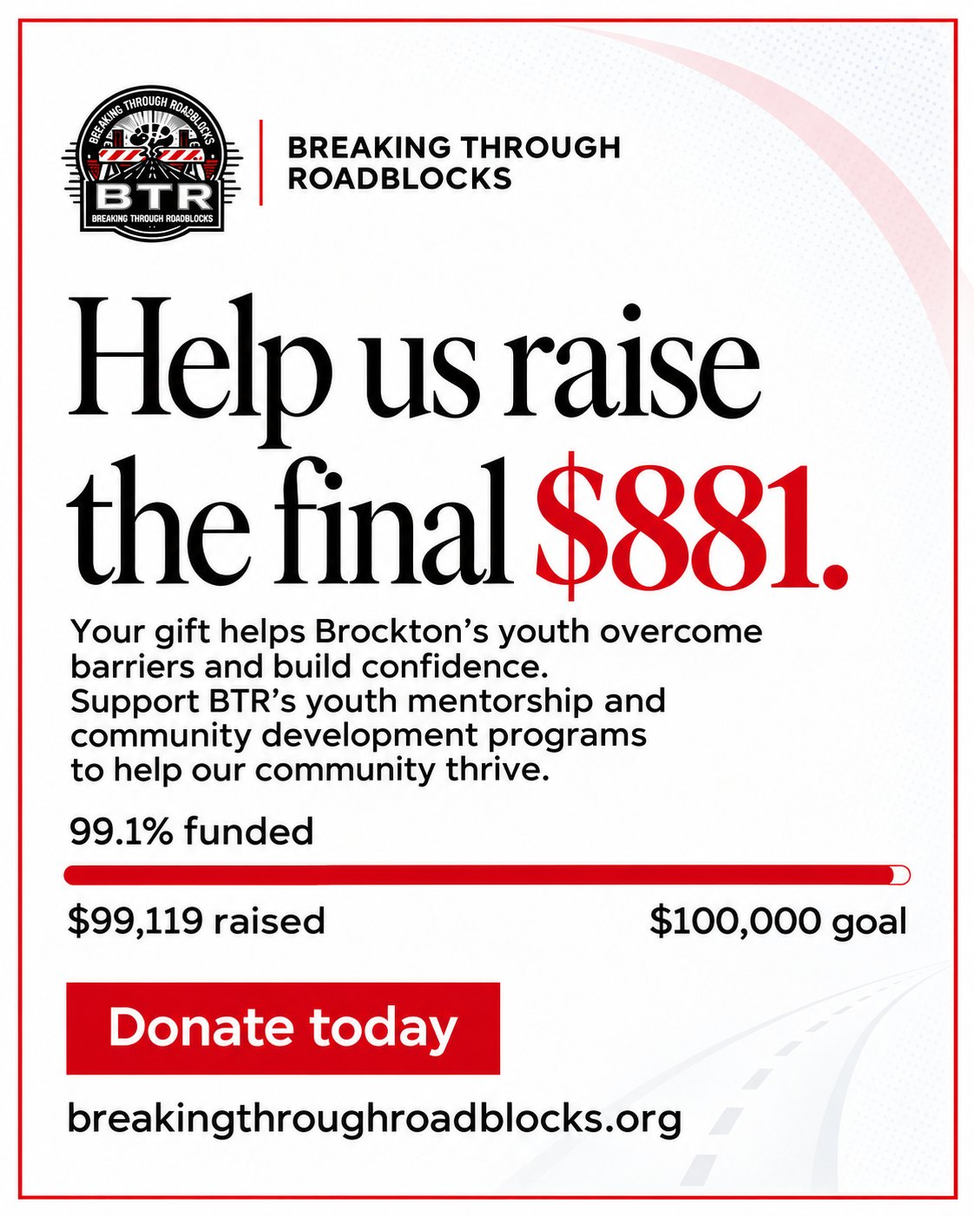
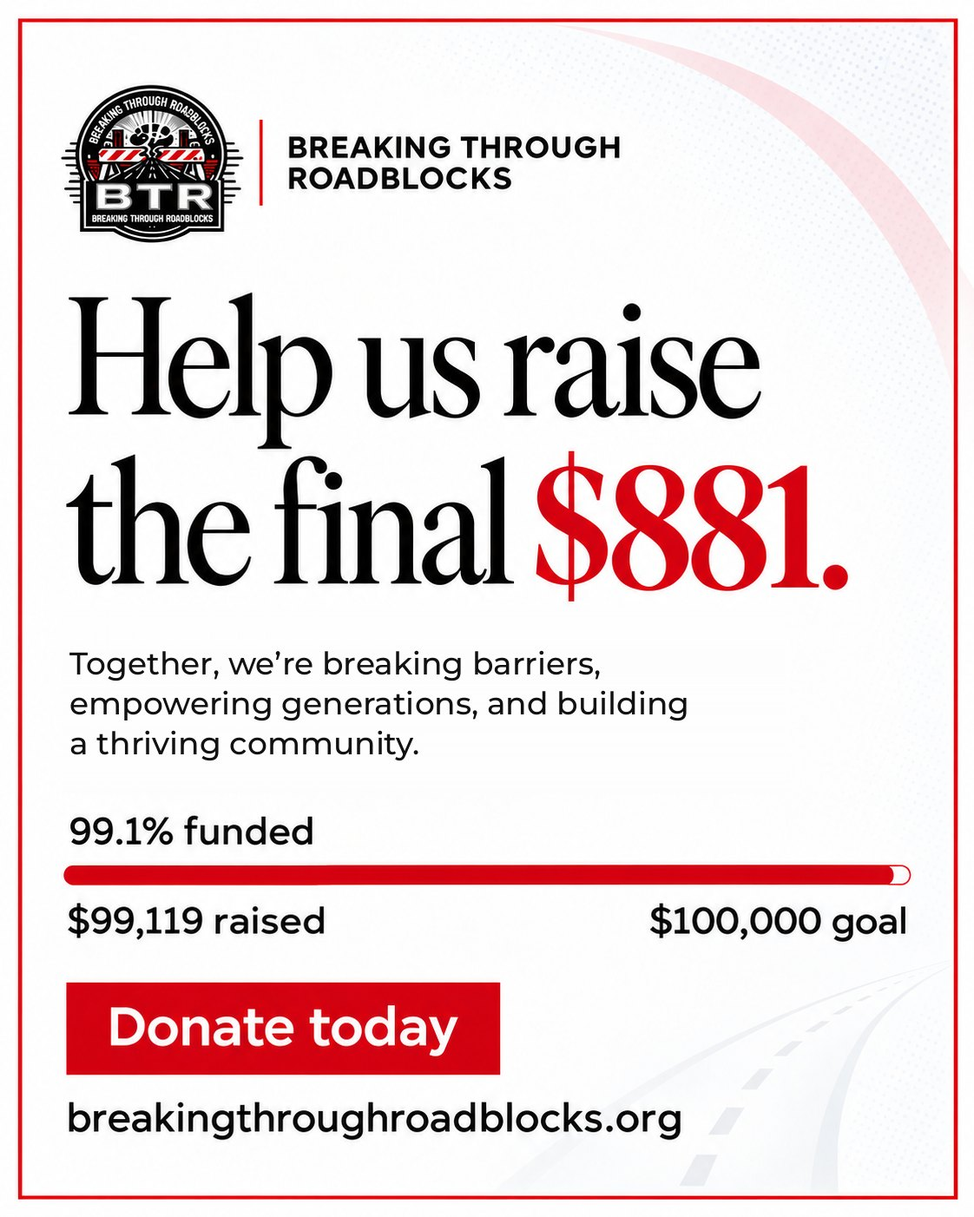
Donation popup: update wording
Claude-Session: https://claude.ai/code/session_011HbiFutbZJFwrWqNB7QXRi

Changed region(s): [[0.0624, 0.4907, 0.7799, 0.6441]]

diff --git a/index.html b/index.html
@@ -28,4 +28,4 @@
 
 
 
-<section class="section pale"><div class="section-heading"><div><p class="eyebrow">LATEST UPDATES</p><h2>From conversations to breakthroughs.</h2></div><a class="text-link" href="news.html">All BTR news</a></div><div class="news-grid"><article class="news-card"><a href="story-where-excellence-meets-sole.html"><img src="assets/gala/gala-thank-you.jpg?v=3" alt="Thank You graphic from Breaking Through Roadblocks for the Evening of Excellence Gala" loading="lazy"></a><div><p class="eyebrow">2026-11-14 · 4 MIN READ</p><h3><a href="story-where-excellence-meets-sole.html">Where Excellence Meets Sole: BTR’s 2nd Annual Evening of Excellence Gala</a></h3><p>The ballroom was glowing in BTR red, the sneakers were making statements, and the dance floor stayed busy at our sold-out 2nd Annual Evening of Excellence Gala…</p><a class="text-link" href="story-where-excellence-meets-sole.html">Read article</a></div></article><article class="news-card"><a href="story-btr-breast-cancer-awareness-walk.html"><img src="assets/cancerwalk/IMG_3013-hd.jpg" alt="Brockton High School student volunteers in pink shirts at the BTR Breast Cancer Awareness Walk in D.W. Field Park" loading="lazy"></a><div><p class="eyebrow">2026-10-17 · 1 MIN READ</p><h3><a href="story-btr-breast-cancer-awareness-walk.html">BTR Breast Cancer Awareness Walk</a></h3><p>BTR held its 2nd annual Breast Cancer Awareness Walk at D.W. Field Park in Brockton, with more than 80 people in attendance…</p><a class="text-link" href="story-btr-breast-cancer-awareness-walk.html">Read article</a></div></article><article class="news-card"><a href="story-btr-game-night.html"><img src="assets/game-night/game-night-2026.jpg" alt="Guests mingling between tables at BTR Game Night in a Brockton art gallery" loading="lazy"></a><div><p class="eyebrow">2026-10-10 · 2 MIN READ</p><h3><a href="story-btr-game-night.html">BTR Game Night</a></h3><p>Our Men &amp; Women Game Night brought the community together for an evening built around one big theme: how men and women communicate. The conversations went deep…</p><a class="text-link" href="story-btr-game-night.html">Read article</a></div></article></div></section><section id="support" class="campaign-wrap home-campaign" aria-labelledby="campaign-heading"><div class="campaign-card"><div class="campaign-intro"><p class="eyebrow">ONE COMMUNITY. ONE BOLD GOAL.</p><h2 id="campaign-heading">Together, let’s reach $100K.</h2><p>Every contribution moves the mission forward. Help us reach our goal by December 31, 2026 at 11:59 PM.</p></div><div class="campaign-progress"><div class="giving-totals"><div><strong id="raised-total">$80,600</strong><span>raised by our community</span></div><div class="giving-target"><strong id="goal-total">$100,000</strong><span>fundraising goal</span></div></div><div id="giving-meter" role="progressbar" aria-label="BTR fundraising progress" aria-valuemin="0" aria-valuemax="100000" aria-valuenow="80600" aria-valuetext="$80,600 raised of $100,000 goal"><div id="giving-fill" style="width:80.6%"></div></div><div class="giving-progress-labels"><strong id="giving-percent">81% of our goal</strong><span id="giving-remaining">$19,400 to go</span></div><p id="giving-status" class="giving-status" aria-live="polite">Last verified November 7, 2026. Checking for the latest total…</p><a class="text-link meter-source" href="https://thesoe2.net/BTR/" target="_blank" rel="noopener">View BTR’s fundraising tracker ↗</a><a class="button" href="https://www.paypal.com/ncp/payment/ZL732ZLWXHD96" target="_blank" rel="noopener">Support a breakthrough ↗</a></div></div></section><section class="section quote-band"><blockquote>“Empowerment is not about making people stronger, it’s about changing the way the world perceives their strength.”</blockquote><p>Breaking Through Roadblocks</p></section><section class="section sponsor-marquee-section"><div class="section-heading"><div><p class="eyebrow">OUR PARTNERS</p><h2>Thank you to our sponsors.</h2></div><div class="sm-actions"><button type="button" class="rot-toggle sm-toggle" aria-pressed="false">Pause scrolling</button><a class="text-link" href="sponsor.html">Become a sponsor</a></div></div></section><div class="sponsor-marquee" role="region" aria-label="Our sponsors and supporters"><ul class="sm-track"><li><img src="assets/sponsors/sponsor-01.jpg" alt="Thank you to Trefler Foundation" width="384" height="216" loading="lazy"></li><li><img src="assets/sponsors/sponsor-02.jpg" alt="Thank you to The Boston Foundation" width="384" height="216" loading="lazy"></li><li><img src="assets/sponsors/sponsor-03.jpg" alt="Thank you to Rockland Trust" width="384" height="216" loading="lazy"></li><li><img src="assets/sponsors/sponsor-04.jpg" alt="Thank you to Eastern Bank" width="384" height="216" loading="lazy"></li><li><img src="assets/sponsors/sponsor-05.jpg" alt="Thank you to City of Brockton, Senator Charles E. Shannon Community Safety Initiative Grant" width="384" height="216" loading="lazy"></li><li><img src="assets/sponsors/sponsor-06.jpg" alt="Thank you to Bank of Canton" width="384" height="216" loading="lazy"></li><li><img src="assets/sponsors/sponsor-07.jpg" alt="Thank you to Zion’s Photobooths &amp; Entertainment" width="384" height="216" loading="lazy"></li><li><img src="assets/sponsors/sponsor-08.jpg" alt="Thank you to Controller Service &amp; Sales" width="384" height="216" loading="lazy"></li><li><img src="assets/sponsors/sponsor-09.jpg" alt="Thank you to Andrea Rosario" width="384" height="216" loading="lazy"></li><li><img src="assets/sponsors/sponsor-10.jpg" alt="Thank you to Brack’s Grille &amp; Tap" width="384" height="216" loading="lazy"></li><li><img src="assets/sponsors/sponsor-11.jpg" alt="Thank you to George Lopes Funeral Home" width="384" height="216" loading="lazy"></li><li><img src="assets/sponsors/sponsor-12.jpg" alt="Thank you to Dance studio" width="384" height="216" loading="lazy"></li><li><img src="assets/sponsors/sponsor-13.jpg" alt="Thank you to New Balance" width="384" height="216" loading="lazy"></li><li><img src="assets/sponsors/sponsor-14.jpg" alt="Thank you to Johnny Soles" width="384" height="216" loading="lazy"></li><li><img src="assets/sponsors/sponsor-15.jpg" alt="Thank you to Texas Roadhouse" width="384" height="216" loading="lazy"></li><li><img src="assets/sponsors/sponsor-16.jpg" alt="Thank you to Suffolk" width="384" height="216" loading="lazy"></li><li><img src="assets/sponsors/sponsor-17.jpg" alt="Thank you to Jersey Mike’s Subs" width="384" height="216" loading="lazy"></li><li><img src="assets/sponsors/sponsor-18.jpg" alt="Thank you to Brockton Public Schools" width="384" height="216" loading="lazy"></li><li><img src="assets/sponsors/sponsor-19.jpg" alt="Thank you to Jorge the Mortgage Guy, Total Mortgage" width="384" height="216" loading="lazy"></li><li><img src="assets/sponsors/sponsor-20.jpg" alt="Thank you to Brockton High School" width="384" height="216" loading="lazy"></li><li><img src="assets/sponsors/sponsor-21.jpg" alt="Thank you to I Go To Him" width="384" height="216" loading="lazy"></li><li><img src="assets/sponsors/sponsor-22.jpg" alt="Thank you to Traders World" width="384" height="216" loading="lazy"></li><li><img src="assets/sponsors/sponsor-23.jpg" alt="Thank you to Jovonie Houston" width="384" height="216" loading="lazy"></li><li><img src="assets/sponsors/sponsor-24.jpg" alt="Thank you to ACVB-CARE" width="384" height="216" loading="lazy"></li><li><img src="assets/sponsors/sponsor-25.jpg" alt="Thank you to Left Field Project Management" width="384" height="216" loading="lazy"></li><li><img src="assets/sponsors/sponsor-26.jpg" alt="Thank you to Brockton Public Library" width="384" height="216" loading="lazy"></li><li><img src="assets/sponsors/sponsor-27.jpg" alt="Thank you to Sweet Plantain Strings" width="384" height="216" loading="lazy"></li><li><img src="assets/sponsors/sponsor-28.jpg" alt="Thank you to Liberty Printing" width="384" height="216" loading="lazy"></li><li aria-hidden="true"><img src="assets/sponsors/sponsor-01.jpg" alt="" width="384" height="216" loading="lazy"></li><li aria-hidden="true"><img src="assets/sponsors/sponsor-02.jpg" alt="" width="384" height="216" loading="lazy"></li><li aria-hidden="true"><img src="assets/sponsors/sponsor-03.jpg" alt="" width="384" height="216" loading="lazy"></li><li aria-hidden="true"><img src="assets/sponsors/sponsor-04.jpg" alt="" width="384" height="216" loading="lazy"></li><li aria-hidden="true"><img src="assets/sponsors/sponsor-05.jpg" alt="" width="384" height="216" loading="lazy"></li><li aria-hidden="true"><img src="assets/sponsors/sponsor-06.jpg" alt="" width="384" height="216" loading="lazy"></li><li aria-hidden="true"><img src="assets/sponsors/sponsor-07.jpg" alt="" width="384" height="216" loading="lazy"></li><li aria-hidden="true"><img src="assets/sponsors/sponsor-08.jpg" alt="" width="384" height="216" loading="lazy"></li><li aria-hidden="true"><img src="assets/sponsors/sponsor-09.jpg" alt="" width="384" height="216" loading="lazy"></li><li aria-hidden="true"><img src="assets/sponsors/sponsor-10.jpg" alt="" width="384" height="216" loading="lazy"></li><li aria-hidden="true"><img src="assets/sponsors/sponsor-11.jpg" alt="" width="384" height="216" loading="lazy"></li><li aria-hidden="true"><img src="assets/sponsors/sponsor-12.jpg" alt="" width="384" height="216" loading="lazy"></li><li aria-hidden="true"><img src="assets/sponsors/sponsor-13.jpg" alt="" width="384" height="216" loading="lazy"></li><li aria-hidden="true"><img src="assets/sponsors/sponsor-14.jpg" alt="" width="384" height="216" loading="lazy"></li><li aria-hidden="true"><img src="assets/sponsors/sponsor-15.jpg" alt="" width="384" height="216" loading="lazy"></li><li aria-hidden="true"><img src="assets/sponsors/sponsor-16.jpg" alt="" width="384" height="216" loading="lazy"></li><li aria-hidden="true"><img src="assets/sponsors/sponsor-17.jpg" alt="" width="384" height="216" loading="lazy"></li><li aria-hidden="true"><img src="assets/sponsors/sponsor-18.jpg" alt="" width="384" height="216" loading="lazy"></li><li aria-hidden="true"><img src="assets/sponsors/sponsor-19.jpg" alt="" width="384" height="216" loading="lazy"></li><li aria-hidden="true"><img src="assets/sponsors/sponsor-20.jpg" alt="" width="384" height="216" loading="lazy"></li><li aria-hidden="true"><img src="assets/sponsors/sponsor-21.jpg" alt="" width="384" height="216" loading="lazy"></li><li aria-hidden="true"><img src="assets/sponsors/sponsor-22.jpg" alt="" width="384" height="216" loading="lazy"></li><li aria-hidden="true"><img src="assets/sponsors/sponsor-23.jpg" alt="" width="384" height="216" loading="lazy"></li><li aria-hidden="true"><img src="assets/sponsors/sponsor-24.jpg" alt="" width="384" height="216" loading="lazy"></li><li aria-hidden="true"><img src="assets/sponsors/sponsor-25.jpg" alt="" width="384" height="216" loading="lazy"></li><li aria-hidden="true"><img src="assets/sponsors/sponsor-26.jpg" alt="" width="384" height="216" loading="lazy"></li><li aria-hidden="true"><img src="assets/sponsors/sponsor-27.jpg" alt="" width="384" height="216" loading="lazy"></li><li aria-hidden="true"><img src="assets/sponsors/sponsor-28.jpg" alt="" width="384" height="216" loading="lazy"></li></ul></div></main><footer class="final-footer"><div><a class="brand" href="index.html"><img class="brand-logo" src="btr-logo-transparent.png" alt="Breaking Through Roadblocks (BTR)" width="590" height="566"></a><p>From Roadblocks to Breakthroughs.</p><div class="footer-social"><a href="https://www.instagram.com/breaking_through_roadblocks/" target="_blank" rel="noopener" aria-label="BTR on Instagram (opens in a new tab)"><svg viewBox="0 0 24 24" width="20" height="20" aria-hidden="true" focusable="false"><rect x="3" y="3" width="18" height="18" rx="5" fill="none" stroke="currentColor" stroke-width="2"/><circle cx="12" cy="12" r="4" fill="none" stroke="currentColor" stroke-width="2"/><circle cx="17.5" cy="6.5" r="1.3" fill="currentColor"/></svg></a><a href="https://www.facebook.com/profile.php?id=100095442188513" target="_blank" rel="noopener" aria-label="BTR on Facebook (opens in a new tab)"><svg viewBox="0 0 24 24" width="20" height="20" aria-hidden="true" focusable="false"><path fill="currentColor" d="M13.5 21v-7.5h2.6l.4-3h-3V8.6c0-.9.3-1.5 1.5-1.5h1.6V4.4c-.3 0-1.2-.1-2.3-.1-2.3 0-3.9 1.4-3.9 4v2.2H7.8v3h2.6V21h3.1z"/></svg></a></div></div><div class="footer-column"><h3>Explore BTR</h3><a href="about.html">About BTR</a><a href="board.html">Our board</a><a href="programs.html">Programs</a><a href="news.html">News</a></div><div class="footer-column"><h3>Get Involved</h3><a href="support.html">Support BTR</a><a href="sponsor.html">Sponsorship</a><a href="events.html">Events</a><a href="contact.html">Contact</a></div><div class="footer-column"><h3>Community</h3><a href="code-of-conduct.html">Code of conduct</a><a href="terms.html">Terms &amp; conditions</a><a href="privacy.html">Privacy policy</a><a href="accessibility.html">Accessibility</a></div><div class="footer-bottom"><p>© 2026 Breaking Through Roadblocks, Inc.</p><p>Designed by DrewBreezy MediaPowered</p><p><a class="footer-admin" href="stats/">ADMIN</a></p></div></footer><script src="script.js?v=20261116004245"></script><script src="donations.js"></script><script src="carousel.js"></script><div class="gala-modal thanks-modal" id="thanksModal" role="dialog" aria-modal="true" aria-labelledby="thanksModalTitle" hidden><div class="gala-modal-backdrop" data-close></div><div class="gala-modal-panel" tabindex="-1"><button type="button" class="gala-modal-close" data-close aria-label="Close">&times;</button><div class="tm-grid"><div class="tm-rotator" aria-roledescription="carousel" aria-label="Photos from the Evening of Excellence Gala"><img class="tm-slide is-active" src="assets/gala/thanks-1.jpg" alt="A T.A.R.G.E.T.S. youth member smiling beside the BTR merchandise table at the gala" style="object-position:30% 40%"><img class="tm-slide" src="assets/gala/thanks-2.jpg" alt="A gala table set with gold chargers, red napkins and black candelabras" style="object-position:50% 60%"><img class="tm-slide" src="assets/gala/thanks-3.jpg" alt="Five smiling guests taking a selfie in the red-lit gala ballroom" style="object-position:50% 40%"><img class="tm-slide" src="assets/gala/thanks-4.jpg" alt="Spirit of Excellence dancers in black and gold posing together at the gala" style="object-position:50% 20%"><div class="tm-dots"><button type="button" class="rot-toggle tm-toggle" aria-pressed="false">Pause</button><button type="button" class="tm-dot is-active" aria-label="Show photo 1 of 4" aria-current="true"></button><button type="button" class="tm-dot" aria-label="Show photo 2 of 4"></button><button type="button" class="tm-dot" aria-label="Show photo 3 of 4"></button><button type="button" class="tm-dot" aria-label="Show photo 4 of 4"></button></div></div><div class="gala-modal-copy tm-copy"><p class="eyebrow">EVENING OF EXCELLENCE GALA · NOVEMBER 14</p><h2 id="thanksModalTitle">Thank you for an unforgettable night.</h2><p>Our 2nd Annual Evening of Excellence Gala was a sold-out celebration of achievement, resilience, and community. Thank you to our honorees, sponsors, volunteers, and every guest who made it possible.</p><div class="actions"><a class="button" href="https://givebutter.com/test-y6oqbq" target="_blank" rel="noopener">Support the mission ↗</a></div></div></div></div></div><script src="thanks-modal.js?v=20261119082645"></script><div class="gala-modal donate-modal" id="donateModal" role="dialog" aria-modal="true" aria-label="Help us raise the final $881" hidden><div class="gala-modal-backdrop" data-close></div><div class="gala-modal-panel" tabindex="-1"><button type="button" class="gala-modal-close" data-close aria-label="Close">&times;</button><a class="donate-modal-link" href="https://www.paypal.com/ncp/payment/ZL732ZLWXHD96" target="_blank" rel="noopener" aria-label="Donate today with PayPal (opens in a new tab)"><img src="assets/donate-final-881.jpg" width="1122" height="1402" alt="Breaking Through Roadblocks: Help us raise the final $881. Your gift helps Brockton’s youth overcome barriers and build confidence. Support BTR’s youth mentorship and community development programs to help our community thrive. 99.1% funded: $99,119 raised of a $100,000 goal. Donate today."></a></div></div><script src="donate-modal.js?v=20261121"></script><script src="video-sound.js"></script><script src="hero-rotator.js?v=20261116004245"></script><script src="analytics.js?v=20261120d" defer></script></body></html>
+<section class="section pale"><div class="section-heading"><div><p class="eyebrow">LATEST UPDATES</p><h2>From conversations to breakthroughs.</h2></div><a class="text-link" href="news.html">All BTR news</a></div><div class="news-grid"><article class="news-card"><a href="story-where-excellence-meets-sole.html"><img src="assets/gala/gala-thank-you.jpg?v=3" alt="Thank You graphic from Breaking Through Roadblocks for the Evening of Excellence Gala" loading="lazy"></a><div><p class="eyebrow">2026-11-14 · 4 MIN READ</p><h3><a href="story-where-excellence-meets-sole.html">Where Excellence Meets Sole: BTR’s 2nd Annual Evening of Excellence Gala</a></h3><p>The ballroom was glowing in BTR red, the sneakers were making statements, and the dance floor stayed busy at our sold-out 2nd Annual Evening of Excellence Gala…</p><a class="text-link" href="story-where-excellence-meets-sole.html">Read article</a></div></article><article class="news-card"><a href="story-btr-breast-cancer-awareness-walk.html"><img src="assets/cancerwalk/IMG_3013-hd.jpg" alt="Brockton High School student volunteers in pink shirts at the BTR Breast Cancer Awareness Walk in D.W. Field Park" loading="lazy"></a><div><p class="eyebrow">2026-10-17 · 1 MIN READ</p><h3><a href="story-btr-breast-cancer-awareness-walk.html">BTR Breast Cancer Awareness Walk</a></h3><p>BTR held its 2nd annual Breast Cancer Awareness Walk at D.W. Field Park in Brockton, with more than 80 people in attendance…</p><a class="text-link" href="story-btr-breast-cancer-awareness-walk.html">Read article</a></div></article><article class="news-card"><a href="story-btr-game-night.html"><img src="assets/game-night/game-night-2026.jpg" alt="Guests mingling between tables at BTR Game Night in a Brockton art gallery" loading="lazy"></a><div><p class="eyebrow">2026-10-10 · 2 MIN READ</p><h3><a href="story-btr-game-night.html">BTR Game Night</a></h3><p>Our Men &amp; Women Game Night brought the community together for an evening built around one big theme: how men and women communicate. The conversations went deep…</p><a class="text-link" href="story-btr-game-night.html">Read article</a></div></article></div></section><section id="support" class="campaign-wrap home-campaign" aria-labelledby="campaign-heading"><div class="campaign-card"><div class="campaign-intro"><p class="eyebrow">ONE COMMUNITY. ONE BOLD GOAL.</p><h2 id="campaign-heading">Together, let’s reach $100K.</h2><p>Every contribution moves the mission forward. Help us reach our goal by December 31, 2026 at 11:59 PM.</p></div><div class="campaign-progress"><div class="giving-totals"><div><strong id="raised-total">$80,600</strong><span>raised by our community</span></div><div class="giving-target"><strong id="goal-total">$100,000</strong><span>fundraising goal</span></div></div><div id="giving-meter" role="progressbar" aria-label="BTR fundraising progress" aria-valuemin="0" aria-valuemax="100000" aria-valuenow="80600" aria-valuetext="$80,600 raised of $100,000 goal"><div id="giving-fill" style="width:80.6%"></div></div><div class="giving-progress-labels"><strong id="giving-percent">81% of our goal</strong><span id="giving-remaining">$19,400 to go</span></div><p id="giving-status" class="giving-status" aria-live="polite">Last verified November 7, 2026. Checking for the latest total…</p><a class="text-link meter-source" href="https://thesoe2.net/BTR/" target="_blank" rel="noopener">View BTR’s fundraising tracker ↗</a><a class="button" href="https://www.paypal.com/ncp/payment/ZL732ZLWXHD96" target="_blank" rel="noopener">Support a breakthrough ↗</a></div></div></section><section class="section quote-band"><blockquote>“Empowerment is not about making people stronger, it’s about changing the way the world perceives their strength.”</blockquote><p>Breaking Through Roadblocks</p></section><section class="section sponsor-marquee-section"><div class="section-heading"><div><p class="eyebrow">OUR PARTNERS</p><h2>Thank you to our sponsors.</h2></div><div class="sm-actions"><button type="button" class="rot-toggle sm-toggle" aria-pressed="false">Pause scrolling</button><a class="text-link" href="sponsor.html">Become a sponsor</a></div></div></section><div class="sponsor-marquee" role="region" aria-label="Our sponsors and supporters"><ul class="sm-track"><li><img src="assets/sponsors/sponsor-01.jpg" alt="Thank you to Trefler Foundation" width="384" height="216" loading="lazy"></li><li><img src="assets/sponsors/sponsor-02.jpg" alt="Thank you to The Boston Foundation" width="384" height="216" loading="lazy"></li><li><img src="assets/sponsors/sponsor-03.jpg" alt="Thank you to Rockland Trust" width="384" height="216" loading="lazy"></li><li><img src="assets/sponsors/sponsor-04.jpg" alt="Thank you to Eastern Bank" width="384" height="216" loading="lazy"></li><li><img src="assets/sponsors/sponsor-05.jpg" alt="Thank you to City of Brockton, Senator Charles E. Shannon Community Safety Initiative Grant" width="384" height="216" loading="lazy"></li><li><img src="assets/sponsors/sponsor-06.jpg" alt="Thank you to Bank of Canton" width="384" height="216" loading="lazy"></li><li><img src="assets/sponsors/sponsor-07.jpg" alt="Thank you to Zion’s Photobooths &amp; Entertainment" width="384" height="216" loading="lazy"></li><li><img src="assets/sponsors/sponsor-08.jpg" alt="Thank you to Controller Service &amp; Sales" width="384" height="216" loading="lazy"></li><li><img src="assets/sponsors/sponsor-09.jpg" alt="Thank you to Andrea Rosario" width="384" height="216" loading="lazy"></li><li><img src="assets/sponsors/sponsor-10.jpg" alt="Thank you to Brack’s Grille &amp; Tap" width="384" height="216" loading="lazy"></li><li><img src="assets/sponsors/sponsor-11.jpg" alt="Thank you to George Lopes Funeral Home" width="384" height="216" loading="lazy"></li><li><img src="assets/sponsors/sponsor-12.jpg" alt="Thank you to Dance studio" width="384" height="216" loading="lazy"></li><li><img src="assets/sponsors/sponsor-13.jpg" alt="Thank you to New Balance" width="384" height="216" loading="lazy"></li><li><img src="assets/sponsors/sponsor-14.jpg" alt="Thank you to Johnny Soles" width="384" height="216" loading="lazy"></li><li><img src="assets/sponsors/sponsor-15.jpg" alt="Thank you to Texas Roadhouse" width="384" height="216" loading="lazy"></li><li><img src="assets/sponsors/sponsor-16.jpg" alt="Thank you to Suffolk" width="384" height="216" loading="lazy"></li><li><img src="assets/sponsors/sponsor-17.jpg" alt="Thank you to Jersey Mike’s Subs" width="384" height="216" loading="lazy"></li><li><img src="assets/sponsors/sponsor-18.jpg" alt="Thank you to Brockton Public Schools" width="384" height="216" loading="lazy"></li><li><img src="assets/sponsors/sponsor-19.jpg" alt="Thank you to Jorge the Mortgage Guy, Total Mortgage" width="384" height="216" loading="lazy"></li><li><img src="assets/sponsors/sponsor-20.jpg" alt="Thank you to Brockton High School" width="384" height="216" loading="lazy"></li><li><img src="assets/sponsors/sponsor-21.jpg" alt="Thank you to I Go To Him" width="384" height="216" loading="lazy"></li><li><img src="assets/sponsors/sponsor-22.jpg" alt="Thank you to Traders World" width="384" height="216" loading="lazy"></li><li><img src="assets/sponsors/sponsor-23.jpg" alt="Thank you to Jovonie Houston" width="384" height="216" loading="lazy"></li><li><img src="assets/sponsors/sponsor-24.jpg" alt="Thank you to ACVB-CARE" width="384" height="216" loading="lazy"></li><li><img src="assets/sponsors/sponsor-25.jpg" alt="Thank you to Left Field Project Management" width="384" height="216" loading="lazy"></li><li><img src="assets/sponsors/sponsor-26.jpg" alt="Thank you to Brockton Public Library" width="384" height="216" loading="lazy"></li><li><img src="assets/sponsors/sponsor-27.jpg" alt="Thank you to Sweet Plantain Strings" width="384" height="216" loading="lazy"></li><li><img src="assets/sponsors/sponsor-28.jpg" alt="Thank you to Liberty Printing" width="384" height="216" loading="lazy"></li><li aria-hidden="true"><img src="assets/sponsors/sponsor-01.jpg" alt="" width="384" height="216" loading="lazy"></li><li aria-hidden="true"><img src="assets/sponsors/sponsor-02.jpg" alt="" width="384" height="216" loading="lazy"></li><li aria-hidden="true"><img src="assets/sponsors/sponsor-03.jpg" alt="" width="384" height="216" loading="lazy"></li><li aria-hidden="true"><img src="assets/sponsors/sponsor-04.jpg" alt="" width="384" height="216" loading="lazy"></li><li aria-hidden="true"><img src="assets/sponsors/sponsor-05.jpg" alt="" width="384" height="216" loading="lazy"></li><li aria-hidden="true"><img src="assets/sponsors/sponsor-06.jpg" alt="" width="384" height="216" loading="lazy"></li><li aria-hidden="true"><img src="assets/sponsors/sponsor-07.jpg" alt="" width="384" height="216" loading="lazy"></li><li aria-hidden="true"><img src="assets/sponsors/sponsor-08.jpg" alt="" width="384" height="216" loading="lazy"></li><li aria-hidden="true"><img src="assets/sponsors/sponsor-09.jpg" alt="" width="384" height="216" loading="lazy"></li><li aria-hidden="true"><img src="assets/sponsors/sponsor-10.jpg" alt="" width="384" height="216" loading="lazy"></li><li aria-hidden="true"><img src="assets/sponsors/sponsor-11.jpg" alt="" width="384" height="216" loading="lazy"></li><li aria-hidden="true"><img src="assets/sponsors/sponsor-12.jpg" alt="" width="384" height="216" loading="lazy"></li><li aria-hidden="true"><img src="assets/sponsors/sponsor-13.jpg" alt="" width="384" height="216" loading="lazy"></li><li aria-hidden="true"><img src="assets/sponsors/sponsor-14.jpg" alt="" width="384" height="216" loading="lazy"></li><li aria-hidden="true"><img src="assets/sponsors/sponsor-15.jpg" alt="" width="384" height="216" loading="lazy"></li><li aria-hidden="true"><img src="assets/sponsors/sponsor-16.jpg" alt="" width="384" height="216" loading="lazy"></li><li aria-hidden="true"><img src="assets/sponsors/sponsor-17.jpg" alt="" width="384" height="216" loading="lazy"></li><li aria-hidden="true"><img src="assets/sponsors/sponsor-18.jpg" alt="" width="384" height="216" loading="lazy"></li><li aria-hidden="true"><img src="assets/sponsors/sponsor-19.jpg" alt="" width="384" height="216" loading="lazy"></li><li aria-hidden="true"><img src="assets/sponsors/sponsor-20.jpg" alt="" width="384" height="216" loading="lazy"></li><li aria-hidden="true"><img src="assets/sponsors/sponsor-21.jpg" alt="" width="384" height="216" loading="lazy"></li><li aria-hidden="true"><img src="assets/sponsors/sponsor-22.jpg" alt="" width="384" height="216" loading="lazy"></li><li aria-hidden="true"><img src="assets/sponsors/sponsor-23.jpg" alt="" width="384" height="216" loading="lazy"></li><li aria-hidden="true"><img src="assets/sponsors/sponsor-24.jpg" alt="" width="384" height="216" loading="lazy"></li><li aria-hidden="true"><img src="assets/sponsors/sponsor-25.jpg" alt="" width="384" height="216" loading="lazy"></li><li aria-hidden="true"><img src="assets/sponsors/sponsor-26.jpg" alt="" width="384" height="216" loading="lazy"></li><li aria-hidden="true"><img src="assets/sponsors/sponsor-27.jpg" alt="" width="384" height="216" loading="lazy"></li><li aria-hidden="true"><img src="assets/sponsors/sponsor-28.jpg" alt="" width="384" height="216" loading="lazy"></li></ul></div></main><footer class="final-footer"><div><a class="brand" href="index.html"><img class="brand-logo" src="btr-logo-transparent.png" alt="Breaking Through Roadblocks (BTR)" width="590" height="566"></a><p>From Roadblocks to Breakthroughs.</p><div class="footer-social"><a href="https://www.instagram.com/breaking_through_roadblocks/" target="_blank" rel="noopener" aria-label="BTR on Instagram (opens in a new tab)"><svg viewBox="0 0 24 24" width="20" height="20" aria-hidden="true" focusable="false"><rect x="3" y="3" width="18" height="18" rx="5" fill="none" stroke="currentColor" stroke-width="2"/><circle cx="12" cy="12" r="4" fill="none" stroke="currentColor" stroke-width="2"/><circle cx="17.5" cy="6.5" r="1.3" fill="currentColor"/></svg></a><a href="https://www.facebook.com/profile.php?id=100095442188513" target="_blank" rel="noopener" aria-label="BTR on Facebook (opens in a new tab)"><svg viewBox="0 0 24 24" width="20" height="20" aria-hidden="true" focusable="false"><path fill="currentColor" d="M13.5 21v-7.5h2.6l.4-3h-3V8.6c0-.9.3-1.5 1.5-1.5h1.6V4.4c-.3 0-1.2-.1-2.3-.1-2.3 0-3.9 1.4-3.9 4v2.2H7.8v3h2.6V21h3.1z"/></svg></a></div></div><div class="footer-column"><h3>Explore BTR</h3><a href="about.html">About BTR</a><a href="board.html">Our board</a><a href="programs.html">Programs</a><a href="news.html">News</a></div><div class="footer-column"><h3>Get Involved</h3><a href="support.html">Support BTR</a><a href="sponsor.html">Sponsorship</a><a href="events.html">Events</a><a href="contact.html">Contact</a></div><div class="footer-column"><h3>Community</h3><a href="code-of-conduct.html">Code of conduct</a><a href="terms.html">Terms &amp; conditions</a><a href="privacy.html">Privacy policy</a><a href="accessibility.html">Accessibility</a></div><div class="footer-bottom"><p>© 2026 Breaking Through Roadblocks, Inc.</p><p>Designed by DrewBreezy MediaPowered</p><p><a class="footer-admin" href="stats/">ADMIN</a></p></div></footer><script src="script.js?v=20261116004245"></script><script src="donations.js"></script><script src="carousel.js"></script><div class="gala-modal thanks-modal" id="thanksModal" role="dialog" aria-modal="true" aria-labelledby="thanksModalTitle" hidden><div class="gala-modal-backdrop" data-close></div><div class="gala-modal-panel" tabindex="-1"><button type="button" class="gala-modal-close" data-close aria-label="Close">&times;</button><div class="tm-grid"><div class="tm-rotator" aria-roledescription="carousel" aria-label="Photos from the Evening of Excellence Gala"><img class="tm-slide is-active" src="assets/gala/thanks-1.jpg" alt="A T.A.R.G.E.T.S. youth member smiling beside the BTR merchandise table at the gala" style="object-position:30% 40%"><img class="tm-slide" src="assets/gala/thanks-2.jpg" alt="A gala table set with gold chargers, red napkins and black candelabras" style="object-position:50% 60%"><img class="tm-slide" src="assets/gala/thanks-3.jpg" alt="Five smiling guests taking a selfie in the red-lit gala ballroom" style="object-position:50% 40%"><img class="tm-slide" src="assets/gala/thanks-4.jpg" alt="Spirit of Excellence dancers in black and gold posing together at the gala" style="object-position:50% 20%"><div class="tm-dots"><button type="button" class="rot-toggle tm-toggle" aria-pressed="false">Pause</button><button type="button" class="tm-dot is-active" aria-label="Show photo 1 of 4" aria-current="true"></button><button type="button" class="tm-dot" aria-label="Show photo 2 of 4"></button><button type="button" class="tm-dot" aria-label="Show photo 3 of 4"></button><button type="button" class="tm-dot" aria-label="Show photo 4 of 4"></button></div></div><div class="gala-modal-copy tm-copy"><p class="eyebrow">EVENING OF EXCELLENCE GALA · NOVEMBER 14</p><h2 id="thanksModalTitle">Thank you for an unforgettable night.</h2><p>Our 2nd Annual Evening of Excellence Gala was a sold-out celebration of achievement, resilience, and community. Thank you to our honorees, sponsors, volunteers, and every guest who made it possible.</p><div class="actions"><a class="button" href="https://givebutter.com/test-y6oqbq" target="_blank" rel="noopener">Support the mission ↗</a></div></div></div></div></div><script src="thanks-modal.js?v=20261119082645"></script><div class="gala-modal donate-modal" id="donateModal" role="dialog" aria-modal="true" aria-label="Help us raise the final $881" hidden><div class="gala-modal-backdrop" data-close></div><div class="gala-modal-panel" tabindex="-1"><button type="button" class="gala-modal-close" data-close aria-label="Close">&times;</button><a class="donate-modal-link" href="https://www.paypal.com/ncp/payment/ZL732ZLWXHD96" target="_blank" rel="noopener" aria-label="Donate today with PayPal (opens in a new tab)"><img src="assets/donate-final-881.jpg?v=2" width="1122" height="1402" alt="Breaking Through Roadblocks: Help us raise the final $881. Together, we’re breaking barriers, empowering generations, and building a thriving community. 99.1% funded: $99,119 raised of a $100,000 goal. Donate today."></a></div></div><script src="donate-modal.js?v=20261121"></script><script src="video-sound.js"></script><script src="hero-rotator.js?v=20261116004245"></script><script src="analytics.js?v=20261120d" defer></script></body></html>
